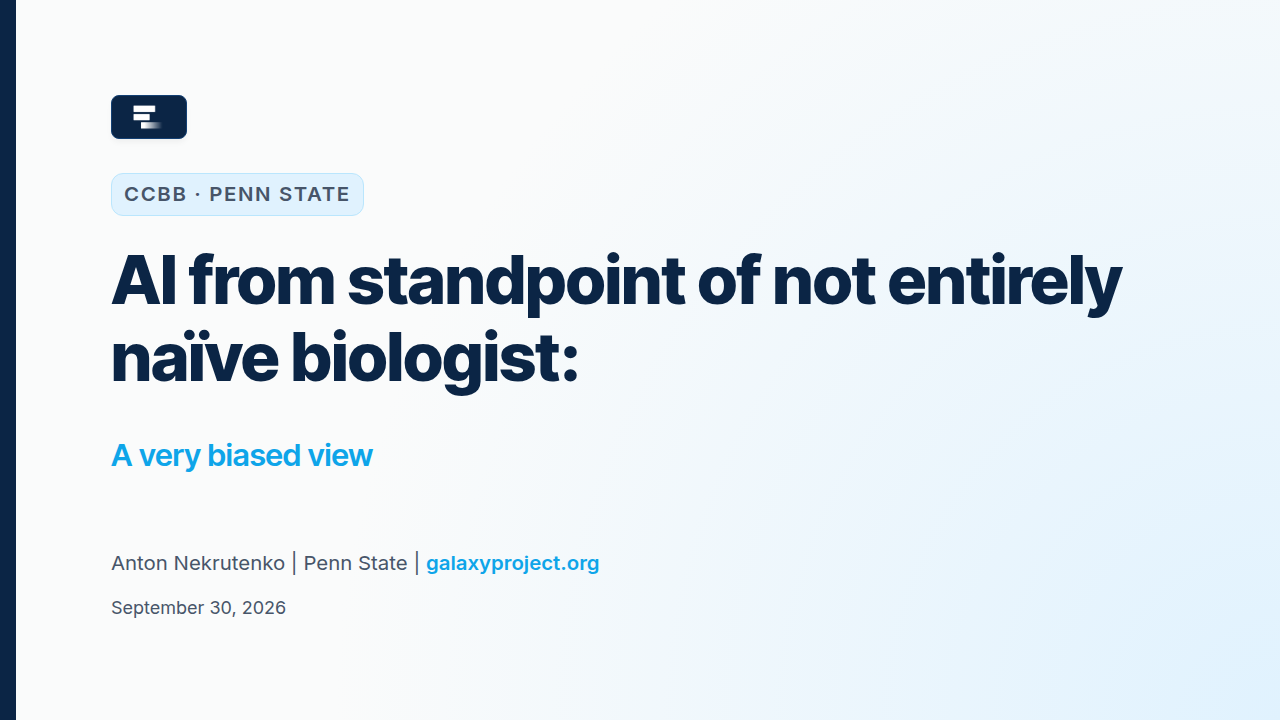
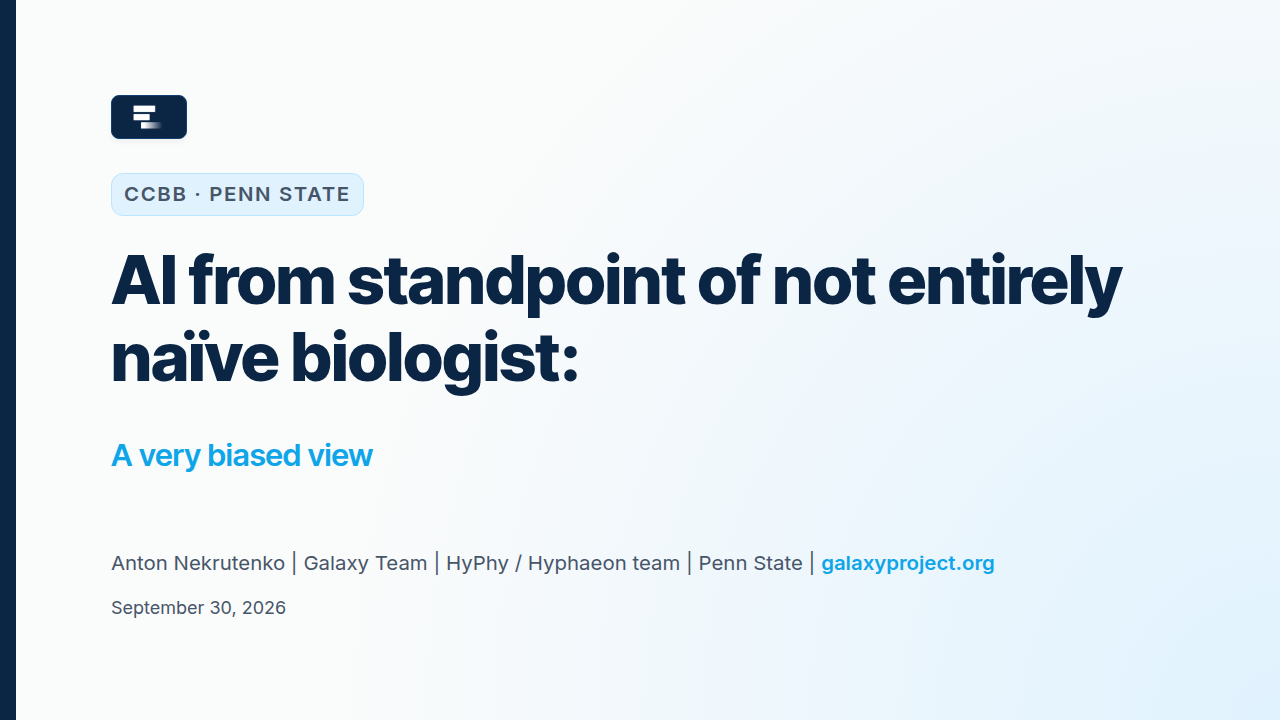
Update title slide attribution to include Galaxy Team and HyPhy / Hyphaeon team

Changed region(s): [[0.2188, 0.7639, 0.7812, 0.7944]]

diff --git a/ccbb_sep_2026/slides.html b/ccbb_sep_2026/slides.html
@@ -13,7 +13,7 @@
 <div class="brandbar"><img src="assets/logos/galaxy.png" height="28" class="invert" /></div><p class="badge">CCBB · Penn State</p>
 <h1 id="ai-from-standpoint-of-not-entirely-na%C3%AFve-biologist">AI from standpoint of not entirely naïve biologist:</h1>
 <h2 class="nocaps" id="a-very-biased-view">A very biased view</h2>
-<div class="presenter"><p>Anton Nekrutenko | Penn State | <a href="https://galaxyproject.org">galaxyproject.org</a></p>
+<div class="presenter"><p>Anton Nekrutenko | Galaxy Team | HyPhy / Hyphaeon team | Penn State | <a href="https://galaxyproject.org">galaxyproject.org</a></p>
 <p>September 30, 2026</p>
 </div><footer><a href="https://galaxyproject.org">galaxyproject.org</a> | <a href="https://usegalaxy.org">usegalaxy.org</a></footer>
 </section>

diff --git a/ccbb_sep_2026/slides.md b/ccbb_sep_2026/slides.md
@@ -20,7 +20,7 @@ CCBB · Penn State {.badge}
 ## A very biased view {.nocaps}
 
 ::: presenter
-Anton Nekrutenko | Penn State | [galaxyproject.org](https://galaxyproject.org)
+Anton Nekrutenko | Galaxy Team | HyPhy / Hyphaeon team | Penn State | [galaxyproject.org](https://galaxyproject.org)
 
 September 30, 2026
 :::
